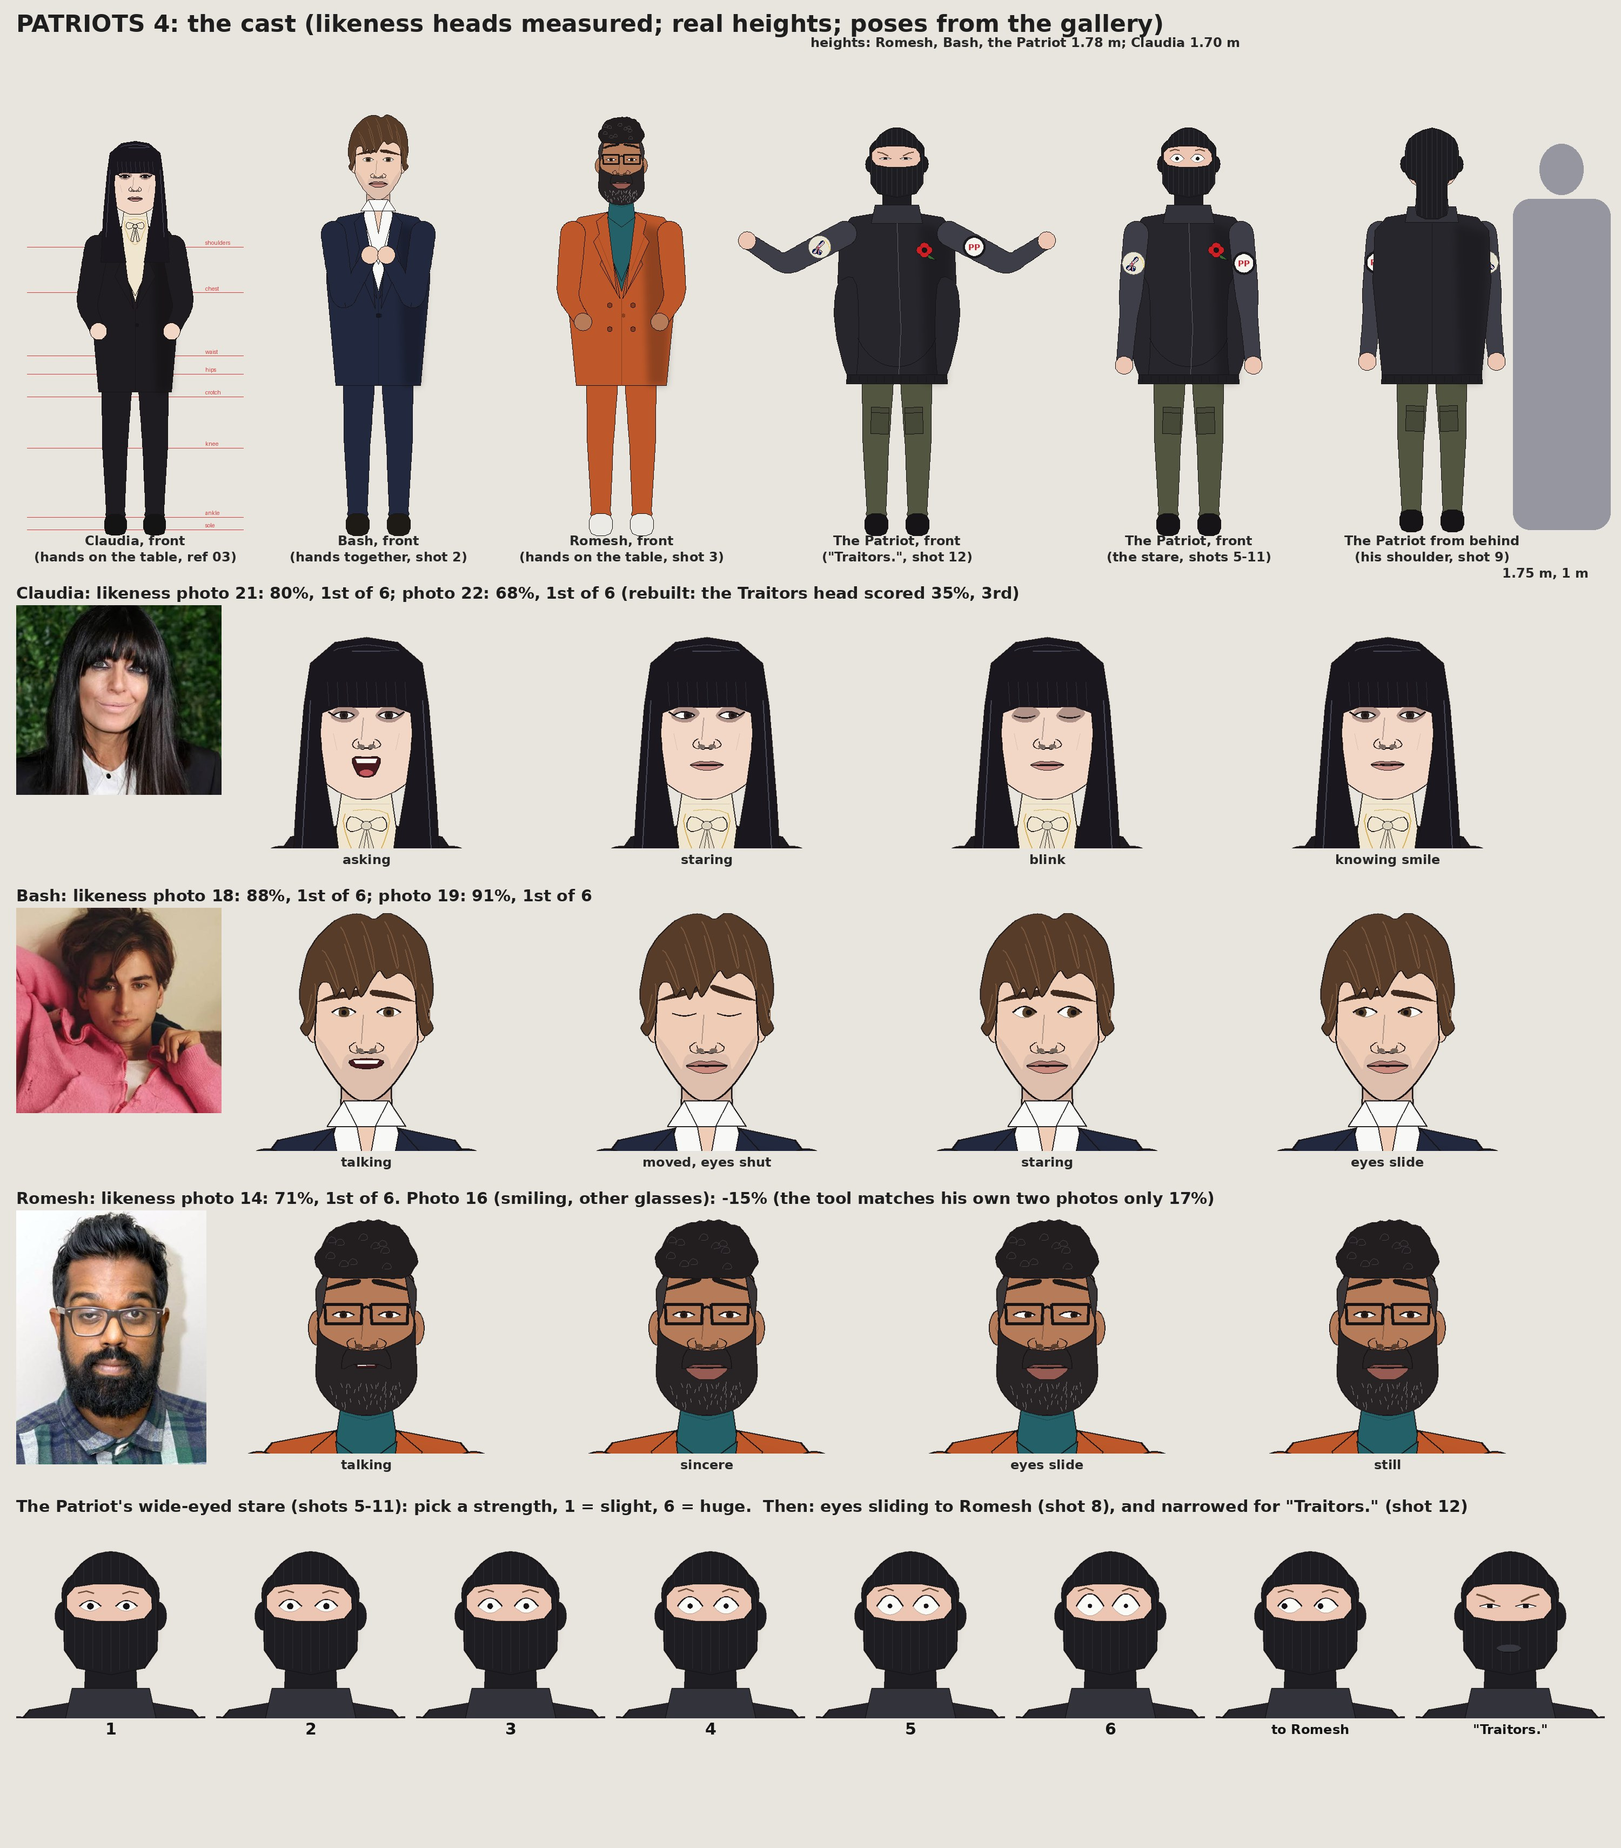
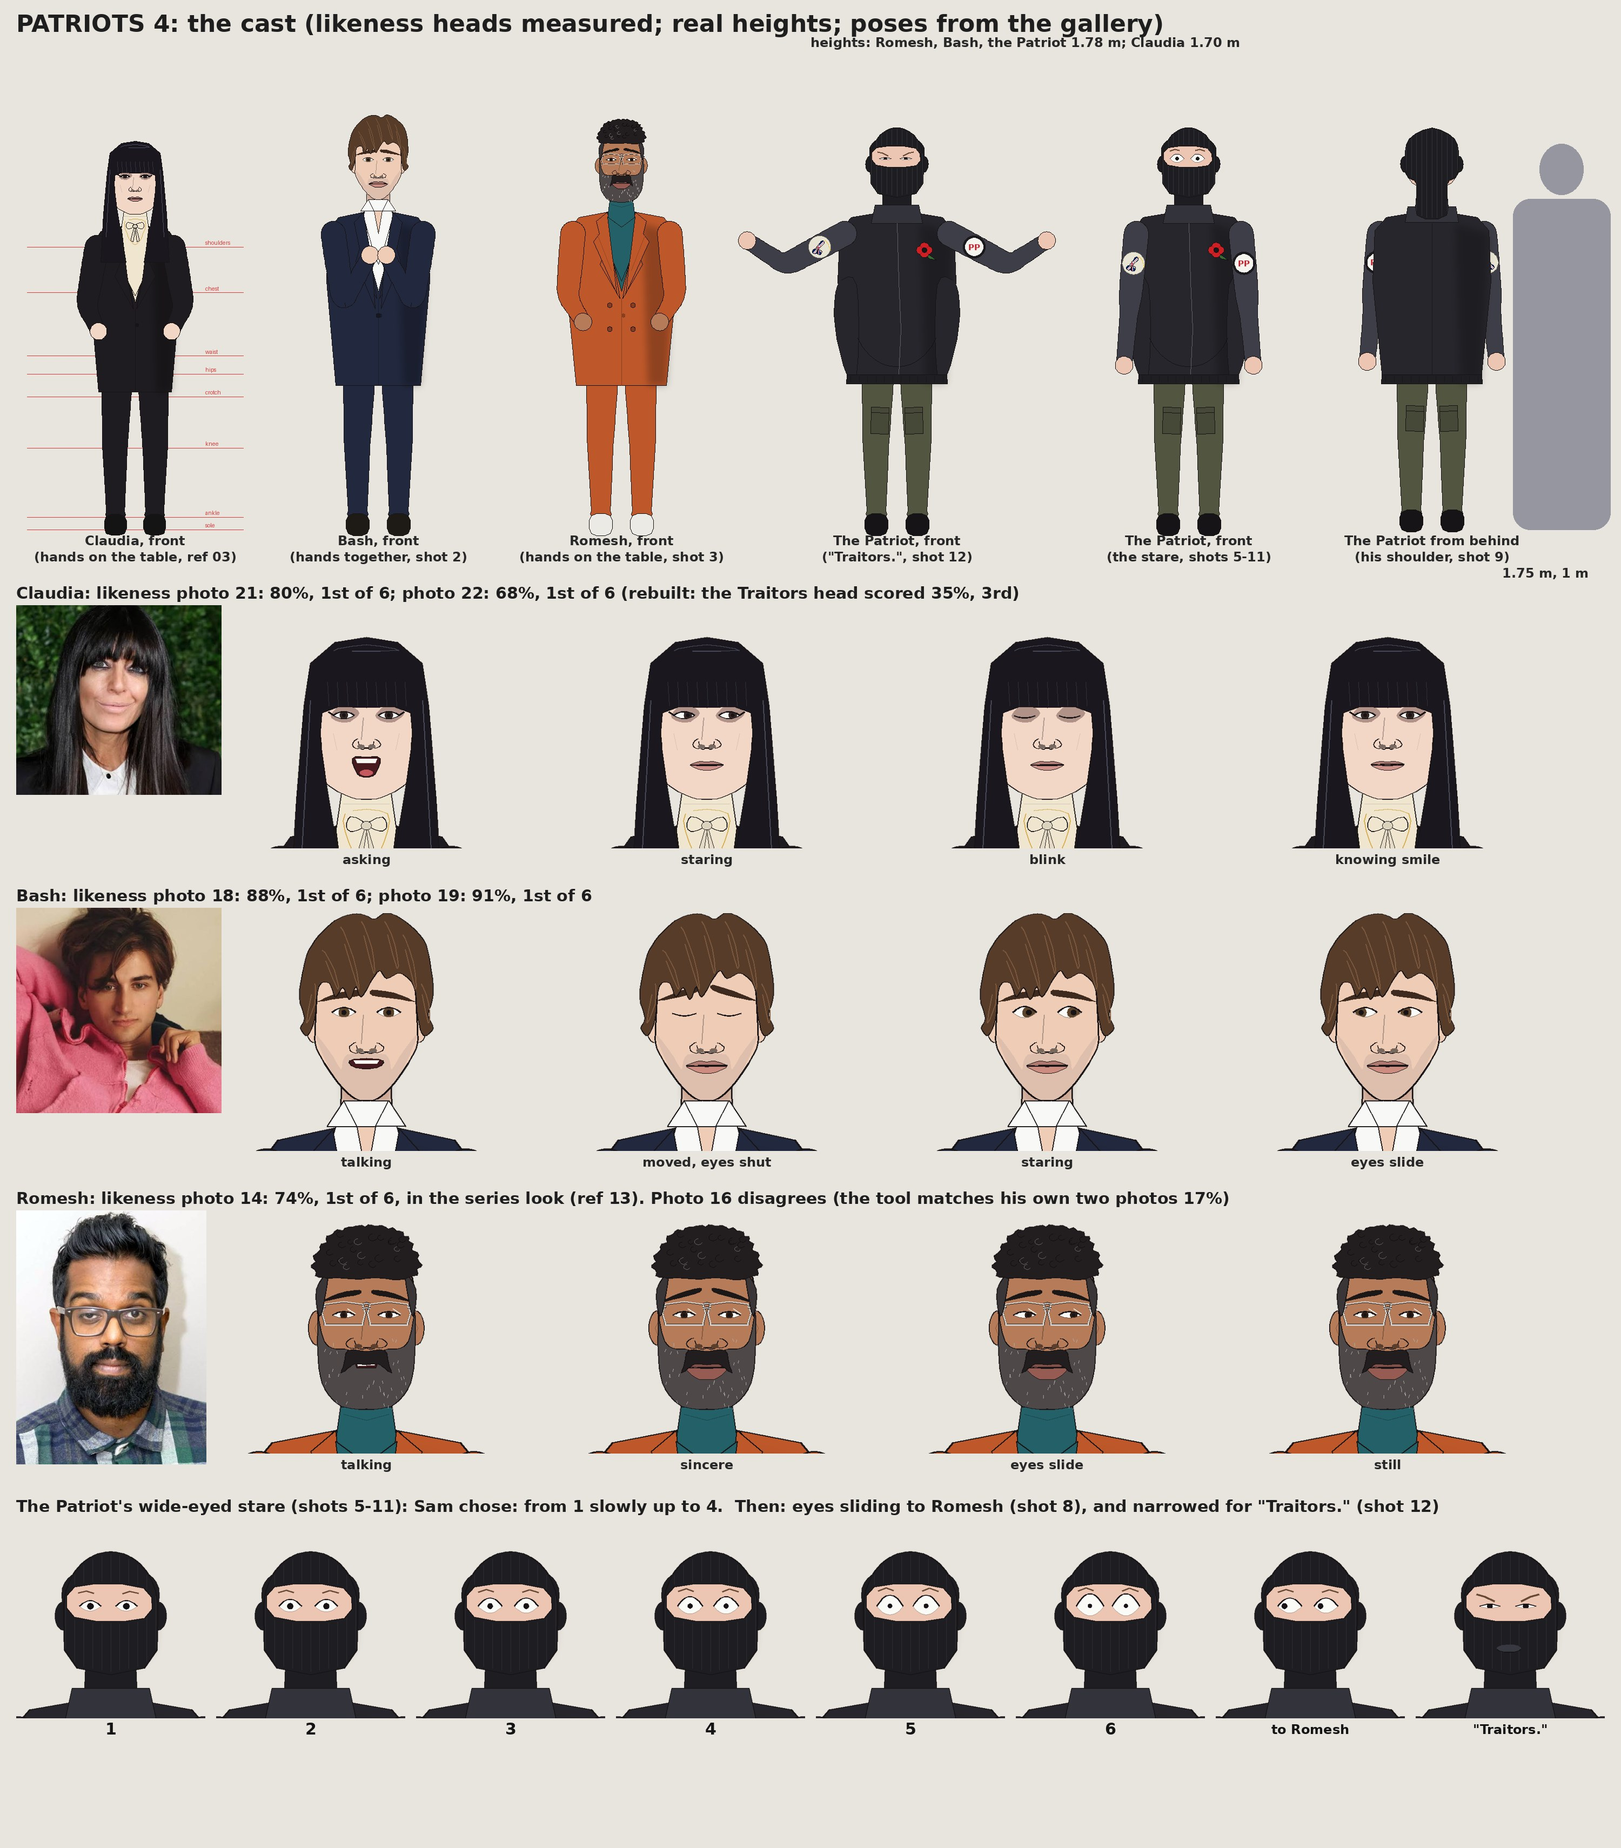
Patriots 4: Romesh in the series look (short salt-and-pepper beard, clear frames, curls); Sam's stare 1-4; usage logged
Claude-Session: https://claude.ai/code/session_01GznaAVDPFv9imGwCBh1MA1

diff --git a/source/patriots4_cast.py b/source/patriots4_cast.py
@@ -10,8 +10,8 @@ is laid out on MediaPipe's average face and moved by how far this person differs
 (`PUSH`). The same drawing with the average measurements is the head's twin (`--average`), so likeness.py check can
 take away what the drawing style itself does.
 
-    Romesh  rust-orange double-breasted suit, teal top; black rectangular glasses; high black curly hair, short
-            sides; full near-black beard with grey flecks; brows set high; a wide nose; a long narrow face (refs 03,
+    Romesh  rust-orange double-breasted suit, teal top; big squarish CLEAR glasses; short tight dark curls, greying a
+            little; a SHORT salt-and-pepper beard (greyest at the chin) under a dark moustache (Sam, 1 Nov: ref 13); brows set high; a wide nose; a long narrow face (refs 03,
             09, 13-16)
     Bash    dark navy tartan suit, white shirt open at the collar; swept wavy brown hair falling over the brow; close-set
             big eyes under low heavy brows; a narrow tapering jaw; a long nose; light stubble; two silver rings
@@ -61,8 +61,8 @@ MEASURED['claudia'] = dict(face_wide=0.791, jaw_wide=0.827, forehead_wide=0.956,
                                              # words against smiling faces (a small mouth, a long gap, a long chin)
 PUSH = {'romesh': 1.6, 'bash': 1.6, 'claudia': 1.6}
 TUNE = {   # per measure, an extra push where the first check found the drawing under the photo (rule 49)
-    'romesh': dict(jaw_wide=1.0, nose_wide=1.6, eye_size=2.0, forehead_wide=1.5, lip_low=3.0, philtrum=2.0,
-                   brow_slope=1.8, eyes_apart=4.0, brow_high=1.8, nose_long=1.5),
+    'romesh': dict(jaw_wide=1.0, nose_wide=2.0, eye_size=2.0, forehead_wide=1.0, lip_low=3.0, philtrum=2.0,
+                   brow_slope=1.8, eyes_apart=4.5, brow_high=0.0, nose_long=1.5),   # searched, 1 Nov (series look)
     'bash': dict(jaw_wide=3.0, philtrum=2.0, brow_slope=1.5, eye_size=1.4, nose_wide=2.0, eye_open=1.4, brow_high=1.3),
     'claudia': dict(jaw_wide=15.0),        # the face finder pulls a drawn jaw back towards the average
 }
@@ -200,8 +200,11 @@ def lips(p, f, L, sp, lip_c, fx_my):
 R_SKIN = (182, 124, 90)
 R_HAIR = (34, 30, 32)
 R_HAIR_SIDE = (58, 54, 56)
-R_BEARD = (40, 36, 38)
-R_GREY = (138, 132, 130)
+R_BEARD = (78, 72, 72)
+R_MOUST = (34, 30, 32)
+R_GREY = (176, 172, 168)
+R_FRAME = (214, 212, 206)
+RIM = [4.0, 2.6]                 # clear frames: (outline, frame) widths
 R_LIP = (150, 92, 84)
 R_RUST = (190, 88, 42)
 R_TEAL = (36, 96, 104)
@@ -219,70 +222,82 @@ def romesh_head(img, p, sp, t, hx, hy):
         p.line([(ex - sgn * 2, ey - 10), (ex + sgn * 3, ey), (ex - sgn * 1, ey + 10)], dk(skin, 0.7), 1.4)
     out = curve(f.pts(outline_uv(L, 0.42)), 4)
     p.poly(out, skin, INK, 2.6)
-    # the full beard: from the sideburns down the cheeks (its upper edge slants from the ear to near the nose) round
-    # the chin a little past it, with the moustache over the top lip (refs 14, 16)
+    # the series look (Sam, 1 Nov: ref 13, taken two days before, with refs 04-05): a SHORT, close-trimmed beard,
+    # salt-and-pepper and greyest at the chin, under a darker moustache; it hugs the jaw, from the sideburns down
     fw, jw = L['fw'], L['jw']
     ny, l0, l17 = L['nose_y'], L['lip0'], L['lip17']
-    right = [(fw * 0.5 + 0.004, 0.36), (fw * 0.5 - 0.03, 0.47), (L['nw'] * 0.75, ny - 0.035), (L['nw'] * 0.42, ny + 0.012),
+    right = [(fw * 0.5 + 0.004, 0.3), (fw * 0.5 - 0.04, 0.5), (L['nw'] * 0.85, ny + 0.0), (L['nw'] * 0.45, ny + 0.015),
              (L['mw'] * 0.36, l0 - 0.008)]
-    # a full beard stands out past the jawline (as in the photos, where it is what makes his jaw read broad)
-    rim = [(fw * 0.5 + 0.012, 0.6), (jw * 0.5 + 0.07, 0.84), (jw * 0.4, 1.02), (jw * 0.16, 1.08), (0.0, 1.09)]
+    rim = [(fw * 0.5 + 0.006, 0.6), (jw * 0.5 + 0.03, 0.84), (jw * 0.36, 1.0), (jw * 0.14, 1.04), (0.0, 1.045)]
     shape = ([(u, v) for u, v in right] + [(-u, v) for u, v in right[::-1]]
              + [(-u, v) for u, v in rim] + [(u, v) for u, v in rim[::-1]])
-    shape = shape[:len(right) * 2] + [(-fw * 0.5 - 0.004, 0.36)] + shape[len(right) * 2:]
+    shape = shape[:len(right) * 2] + [(-fw * 0.5 - 0.004, 0.3)] + shape[len(right) * 2:]
     beard_pts = curve(f.pts([(u, v) for u, v in shape[len(right):]] + [(u, v) for u, v in shape[:len(right)]]), 4)
-    p.poly(beard_pts, R_BEARD, INK, 2.2)
+    p.poly(beard_pts, R_BEARD, INK, 2.0)
     rng = np.random.default_rng(14)
-    for _ in range(46):                                # grey flecks through it, more at the chin
-        u, v = rng.uniform(-jw * 0.45, jw * 0.45), rng.uniform(l17 + 0.02, 1.03)
-        if abs(u) < jw * 0.5 * (1.1 - (v - 0.8)):
+    for _ in range(150):                               # salt and pepper: grey flecks, thickest at the chin
+        u, v = rng.uniform(-fw * 0.5, fw * 0.5), rng.uniform(0.5, 1.03)
+        inside = abs(u) < (fw * 0.5 if v < 0.6 else jw * 0.5 * (1.0 - 1.4 * max(0.0, v - 0.84)))
+        if inside and (v > l17 or abs(u) > L['mw'] * 0.62) and rng.random() < 0.35 + 0.8 * max(0.0, v - 0.7):
             x, y = f(u, v)
-            p.line([(x, y), (x + rng.uniform(-2, 2), y + 5)], R_GREY, 1.2)
+            p.line([(x, y), (x + rng.uniform(-1.5, 1.5), y + 3.5)], R_GREY, 1.3)
     eyes(p, f, L, sp, (48, 30, 22), dk(skin, 0.82), wide=sp.get('wide', 0.0))
     brows(p, f, L, (28, 24, 24), 0.036, sp.get('brow_up', 0.0), sp.get('frown', 0.0))
     nose(p, f, L, skin)
     fx, my = f(0.0, (L['lip13']))
     lips(p, f, L, sp, R_LIP, (fx, my - 6))
-    # the moustache, over the top of the upper lip
-    p.poly(curve(f.pts([(-L['mw'] * 0.58, L['lip13'] + 0.01), (-L['nw'] * 0.5, ny + 0.012), (0.0, ny + 0.02),
-                        (L['nw'] * 0.5, ny + 0.012), (L['mw'] * 0.58, L['lip13'] + 0.01), (L['mw'] * 0.3, l0 + 0.012),
-                        (0.0, l0 + 0.016), (-L['mw'] * 0.3, l0 + 0.012)]), 3), R_BEARD, INK, 1.6)
-    # black rectangular glasses (the first thing people see, says the card)
+    # the moustache, darker than the beard, over the top of the upper lip
+    mw2, l13 = L['mw'] * 0.5, L['lip13']                # a band from under the nose, drooping past the lip corners
+    p.poly(curve(f.pts([(-mw2 * 1.2, l13 + 0.04), (-mw2 * 1.05, l0 + 0.0), (-L['nw'] * 0.45, ny + 0.014), (0.0, ny + 0.022),
+                        (L['nw'] * 0.45, ny + 0.014), (mw2 * 1.05, l0 + 0.0), (mw2 * 1.2, l13 + 0.04), (mw2 * 1.06, l13 + 0.03),
+                        (mw2 * 0.6, l0 + 0.012), (0.0, l0 + 0.016), (-mw2 * 0.6, l0 + 0.012), (-mw2 * 1.06, l13 + 0.03)]), 3),
+           R_MOUST, INK, 1.6)
+    # big squarish CLEAR frames (refs 04, 05, 13: pale see-through plastic, not black)
     ew, ecx, ey = L['ew'], L['ecx'], L['eye_y']
     for sgn in (-1, 1):
         cx = sgn * ecx
-        w2, h1, h2 = ew * 0.82, 0.085, 0.07
-        fr = [(cx - w2, ey - h1), (cx + w2, ey - h1), (cx + w2 * 0.98, ey + h2), (cx - w2 * 0.96, ey + h2)]
-        pts = f.pts(fr)
-        p.poly(pts, None, (22, 20, 22), 6.0)
-        p.poly(pts, None, INK, 1.2)
+        w2, h1, h2 = ew * 0.85, 0.085, 0.075
+        fr = [(cx - w2, ey - h1), (cx + w2, ey - h1), (cx + w2, ey + h2 * 0.8), (cx + w2 * 0.8, ey + h2),
+              (cx - w2 * 0.8, ey + h2), (cx - w2, ey + h2 * 0.8)]
+        pts = curve(f.pts(fr), 2)
+        p.poly(pts + pts[:1], None, INK, RIM[0])
+        p.poly(pts + pts[:1], None, R_FRAME, RIM[1])
+        p.line(f.pts([(cx + w2 * 0.2, ey - h1 * 0.6), (cx + w2 * 0.6, ey - h1 * 0.15)]), (246, 246, 244), 1.6)  # a glint
         tip = (sgn * (L['fw'] * 0.5 + 0.01), ey - 0.05)
-        p.line(f.pts([(cx + sgn * w2, ey - h1 + 0.02), tip]), (22, 20, 22), 5.0)
-    p.line(f.pts([(-ecx + ew * 0.82, ey - 0.05), (0.0, ey - 0.065), (ecx - ew * 0.82, ey - 0.05)]), (22, 20, 22), 5.0)
-    # the hair: short, darker-grey sides above the ears, and a high black curly top with a clear forehead
+        p.line(f.pts([(cx + sgn * w2, ey - h1 + 0.02), tip]), INK, 6.4)
+        p.line(f.pts([(cx + sgn * w2, ey - h1 + 0.02), tip]), R_FRAME, 4.0)
+    for v in (ey - 0.05, ey - h1):                     # the double bridge
+        p.line(f.pts([(-ecx + ew * 0.85, v), (0.0, v - 0.008), (ecx - ew * 0.85, v)]), INK, 5.6)
+        p.line(f.pts([(-ecx + ew * 0.85, v), (0.0, v - 0.008), (ecx - ew * 0.85, v)]), R_FRAME, 3.4)
+    # the hair: short tight curls close to the head, greying a little (ref 13)
     fhw = L['fhw']
-    side = [(fhw * 0.5 + 0.015, 0.33), (fhw * 0.5 + 0.03, 0.12), (fhw * 0.5 * 0.86, 0.0), (fhw * 0.5 * 0.86, 0.08),
-            (fhw * 0.5 * 0.97, 0.3)]
+    side = [(fhw * 0.5 + 0.015, 0.31), (fhw * 0.5 + 0.03, 0.12), (fhw * 0.5 * 0.86, 0.0), (fhw * 0.5 * 0.86, 0.08),
+            (fhw * 0.5 * 0.97, 0.29)]
     for sgn in (-1, 1):
         if sgn < 0 and f.tq > 0.5:
             continue
         p.poly(curve(f.pts([(sgn * u, v) for u, v in side]), 3), R_HAIR_SIDE, INK, 2.0)
-    top = [(-fhw * 0.5 * 0.9, 0.02), (-fhw * 0.5 - 0.035, -0.08), (-fhw * 0.5 * 0.95, -0.2), (-0.26, -0.33),
-           (-0.12, -0.38), (0.02, -0.4), (0.15, -0.38), (0.27, -0.33), (fhw * 0.5 * 0.97, -0.2), (fhw * 0.5 + 0.035, -0.08),
-           (fhw * 0.5 * 0.9, 0.02), (0.22, 0.04), (0.08, 0.035), (-0.06, 0.04), (-0.22, 0.035)]
-    hp = curve(f.pts(top), 4)
-    # lumpy curls round the top edge: small bumps along the outline
-    bumpy = []
+    top = [(-fhw * 0.5 * 0.92, 0.03), (-fhw * 0.5 - 0.035, -0.07), (-fhw * 0.5 * 0.92, -0.2), (-0.24, -0.3),
+           (-0.1, -0.34), (0.04, -0.35), (0.18, -0.33), (0.28, -0.28), (fhw * 0.5 * 0.94, -0.2), (fhw * 0.5 + 0.035, -0.07),
+           (fhw * 0.5 * 0.92, 0.03), (0.22, 0.05), (0.08, 0.035), (-0.06, 0.045), (-0.22, 0.035)]
+    hp = curve(f.pts(top), 6)
+    cx0 = sum(q[0] for q in hp) / len(hp)
+    cy0 = f.top - 0.12 * H
+    bumpy = []                                         # messy curls: uneven clumps all round the top and sides
     for i, q in enumerate(hp):
-        if q[1] < f.top - 0.02 * H:
-            a = rng.uniform(-3.5, 3.5)
-            bumpy.append((q[0] + a * 0.4, q[1] - abs(a)))
+        if q[1] < f.top + 0.02 * H:
+            a = 7.0 * abs(math.sin(i * 0.9)) ** 0.6 * (0.6 + 0.4 * math.sin(i * 2.3) ** 2)
+            dx, dy = q[0] - cx0, q[1] - cy0
+            n = math.hypot(dx, dy) or 1.0
+            bumpy.append((q[0] + dx / n * a, q[1] + dy / n * a))
         else:
             bumpy.append(q)
     p.poly(bumpy, R_HAIR, INK, 2.4)
-    for k in range(10):                                # curl marks inside
-        x, y = f(rng.uniform(-0.28, 0.28), rng.uniform(-0.3, -0.04))
-        p.line(curve([(x - 6, y + 3), (x - 2, y - 4), (x + 4, y - 3), (x + 5, y + 3)], 3), (70, 66, 70), 1.4)
+    for k in range(22):                                # curl marks inside (darker, a few grey hairs)
+        x, y = f(rng.uniform(-0.3, 0.3), rng.uniform(-0.3, -0.01))
+        c = (104, 100, 100) if k % 5 == 0 else (14, 12, 14)
+        r = rng.uniform(3.5, 6)
+        p.line([(x + r * math.cos(a), y + r * 0.8 * math.sin(a)) for a in np.linspace(0.4, 4.6, 8)], c, 1.4)
     return fx
 
 
@@ -525,7 +540,7 @@ def person(img, cam, x, y, s, sp, t=0.0, yaw=0, j=None, head_yaw=None):
 
 # ---------------------------------------------------------------------------------------------- the cast sheet
 SCORES = {   # likeness.py check (rule 49), 1 Nov: `python3 source/patriots4_cast.py likeness OUT_DIR` re-measures
-    'romesh': 'photo 14: 71%, 1st of 6. Photo 16 (smiling, other glasses): -15% (the tool matches his own two photos only 17%)',
+    'romesh': 'photo 14: 74%, 1st of 6, in the series look (ref 13). Photo 16 disagrees (the tool matches his own two photos 17%)',
     'bash': 'photo 18: 88%, 1st of 6; photo 19: 91%, 1st of 6',
     'claudia': 'photo 21: 80%, 1st of 6; photo 22: 68%, 1st of 6 (rebuilt: the Traitors head scored 35%, 3rd)',
 }
@@ -604,7 +619,7 @@ def sheet(out):
             d.text((678 + 630 * c, y + 510), label, font=small, fill=(40, 40, 40), anchor='mm')
     # the Patriot's stare: the numbered strength sheet, then the looks the film needs
     y = y0 + 3 * 560 + 10
-    d.text((30, y), "The Patriot's wide-eyed stare (shots 5-11): pick a strength, 1 = slight, 6 = huge.  Then: eyes sliding "
+    d.text((30, y), "The Patriot's wide-eyed stare (shots 5-11): Sam chose: from 1 slowly up to 4.  Then: eyes sliding "
            'to Romesh (shot 8), and narrowed for "Traitors." (shot 12)', font=mid, fill=(30, 30, 30))
     faces = [(str(k), dict(stare=k)) for k in range(1, 7)] + [('to Romesh', dict(stare=3, look=-0.9)),
                                                                 ('"Traitors."', dict(narrow=True, mouth='v:etc'))]

diff --git a/notes/patriots-4.md b/notes/patriots-4.md
@@ -12,12 +12,19 @@
   smiling, different glasses), so 16 is not a fair test. Claudia's new outfit (black jacket, cream tie blouse, gold
   chain); Romesh (rust double-breasted suit, teal top, glasses, beard); Bash (navy suit, white open shirt, stubble).
   The Patriot reused whole from `patriots3_cast`, with new eyes (`patriot_eyes`: stare 1-6, narrowed, looks).
+  Romesh's likeness 74% (redrawn in the series look below); Bash and Claudia unchanged.
   New gallery poses (`posegallery.py`, `guides/pose-gallery.md`): palms together, hands on table, pointing both ways.
   Cast sheet sent: `review/patriots4-cast.jpg`.
 - **Decided (1 Nov, to hold 15%):** the winner's room is a painted panorama in layers (rule 39), and the "swivel" is
   a camera PAN across it (Claudia -> Bash -> Romesh -> the Patriot), coins low in the foreground; not a 3D room with a
   circling camera. Shot 9 shows Romesh and Bash front on (not three-quarter, rule 38).
-- **Waiting for Sam:** his stare strength (1-6), notes on the cast sheet (all in one batch), the week's usage figure.
+- **Sam's answers on the cast sheet (1 Nov):** the Patriot's stare grows SLOWLY from strength 1 to 4 over the "Errrr";
+  Romesh has a SMALLER beard in this series: draw him from ref 13 (orange suit, taken two days before), refs 04-05.
+  Done: short salt-and-pepper beard (greyest at the chin) under a darker drooping moustache, short messy curls, and
+  CLEAR squarish frames (refs 04, 05, 13; the brief said black: the photos win). Likeness 74%, 1st (photo 14; the
+  series photos are too small and he is shouting in them, so they cannot be measured). Cast sheet re-sent.
+  Rules: Sam will discuss all rule proposals at the END of the project (hold them till then).
+- **Usage (rule 44):** 1 Nov: 7% of the week, up from 3% at the start of this film (about 4% so far; budget 15%).
 - **Next (still BUILDING, Opus high, same chat if Sam is happy):** apply the cast notes; paint the winner's room
   panorama (arch with lattice, panelled walls, fire bowl, caged torches, candles; round table, coin pile) and the
   Round Table room behind Romesh (reuse `traitors.py`); change `patriots4_plan.py` CAMS from the orbit to the pan;
@@ -124,7 +131,7 @@ Claudia 2 (rule 51 asks 3; Bash's card reads light stubble as a beard: check by 
 | 01 | Claudia behind the winner's table, front on: grey tweed jacket; arch behind with a lattice grille, red-lit panes; dark panelled walls; table top red-brown with a cream inlaid ring; coin pyramid about 7 tiers, more coins scattered round the base | |
 | 02 | Claudia, three-quarter: the coin pile, the table's light rim and edge; dining room behind (not our set) | |
 | 03 | The final as aired: Bash left (dark jacket, white shirt), Claudia centre (black jacket, cream high-neck blouse), Romesh right (rust-orange suit); all lean on the table with both hands; fire bowl bottom left; arch and lattice behind | |
-| 04-05 | Romesh (check coat, black rectangular glasses, curly hair, greying beard) and Bash (wavy brown hair, dark tartan suit, white shirt, open collar); both fists up, smiling; Claudia between (fringe, black jacket, white high neck) | |
+| 04-05 | Romesh (check coat, CLEAR squarish glasses (not black: 1 Nov), curly hair, greying beard) and Bash (wavy brown hair, dark tartan suit, white shirt, open collar); both fists up, smiling; Claudia between (fringe, black jacket, white high neck) | |
 | 06-08 | Bash speaking, close: hair over his brow, looking down; emotional, mouth open; hands pressed together at the chest, two silver rings | |
 | 09 | Romesh at the table: rust suit, both hands on the table edge, head down; Bash and Claudia opposite | |
 | 10 | Romesh over Bash's shoulder: wall torch in an iron cage behind him | |
